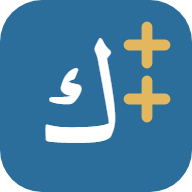
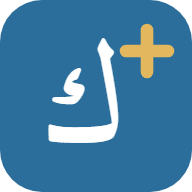
Rename to Kalimat Plus and fix sound on phones
- Kalimat Plus Plus is now Kalimat Plus in the page, SEO data,
  llms.txt, manifest and README; the icon and social image show one plus
- Bring across Kalimat's phone sound fix: speak inside the tap instead of
  after a delay, only cancel speech when something is playing, and show
  a help message when a phone gives no sound or the site is opened inside
  an in-app browser

diff --git a/index.html b/index.html
@@ -3,13 +3,13 @@
 <head>
 <meta charset="utf-8">
 <meta name="viewport" content="width=device-width,initial-scale=1,viewport-fit=cover">
-<title>Kalimat Plus Plus – Fusha Arabic Vocabulary for Discussion, Faith, Character and the Environment | Ummah Apps</title>
+<title>Kalimat Plus – Fusha Arabic Vocabulary for Discussion, Faith, Character and the Environment | Ummah Apps</title>
 <meta name="description" content="Free Fusha (Modern Standard Arabic) vocabulary trainer for intermediate learners: 240+ words and phrases for giving opinions, religion and worship, relationships and character, and the environment. Full harakat, audio, verb forms, plurals, example sentences and games.">
 <meta name="keywords" content="Fusha Arabic, Modern Standard Arabic vocabulary, intermediate Arabic, Arabic discussion phrases, Arabic linking words, Arabic opinion phrases, Islamic Arabic vocabulary, Arabic verb forms, masdar, verbal noun, broken plurals, Arabic example sentences, GCSE Arabic, Ummah Apps">
 <meta name="author" content="Ummah Apps">
 <meta name="robots" content="index,follow,max-image-preview:large">
-<meta name="application-name" content="Kalimat Plus Plus">
-<meta name="apple-mobile-web-app-title" content="Kalimat++">
+<meta name="application-name" content="Kalimat Plus">
+<meta name="apple-mobile-web-app-title" content="Kalimat Plus">
 <meta name="apple-mobile-web-app-capable" content="yes">
 <meta name="mobile-web-app-capable" content="yes">
 <meta name="theme-color" content="#EDF0F1" media="(prefers-color-scheme: light)">
@@ -25,17 +25,17 @@
 
 <meta property="og:type" content="website">
 <meta property="og:site_name" content="Ummah Apps">
-<meta property="og:title" content="Kalimat Plus Plus – Fusha Arabic for Deeper Topics">
+<meta property="og:title" content="Kalimat Plus – Fusha Arabic for Deeper Topics">
 <meta property="og:description" content="240+ Fusha words and phrases for discussion, faith, character and the environment, with audio, verb forms, plurals and example sentences. Free, in your browser.">
 <meta property="og:url" content="https://kalimat-plus.ummahapps.ai/">
 <meta property="og:image" content="https://kalimat-plus.ummahapps.ai/og-image.png">
 <meta property="og:image:width" content="1200">
 <meta property="og:image:height" content="630">
-<meta property="og:image:alt" content="Kalimat Plus Plus, the Arabic word كلمات, meaning words">
+<meta property="og:image:alt" content="Kalimat Plus, the Arabic word كلمات, meaning words">
 <meta property="og:locale" content="en_GB">
 <meta property="og:locale:alternate" content="ar_AR">
 <meta name="twitter:card" content="summary_large_image">
-<meta name="twitter:title" content="Kalimat Plus Plus – Fusha Arabic for Deeper Topics">
+<meta name="twitter:title" content="Kalimat Plus – Fusha Arabic for Deeper Topics">
 <meta name="twitter:description" content="240+ Fusha words and phrases for discussion, faith, character and the environment, with audio, verb forms, plurals and example sentences. Free, in your browser.">
 <meta name="twitter:image" content="https://kalimat-plus.ummahapps.ai/og-image.png">
 
@@ -52,8 +52,8 @@
     {
       "@type": "WebSite",
       "@id": "https://kalimat-plus.ummahapps.ai/#site",
-      "name": "Kalimat Plus Plus",
-      "alternateName": ["Kalimat++", "كلمات"],
+      "name": "Kalimat Plus",
+      "alternateName": "كلمات",
       "url": "https://kalimat-plus.ummahapps.ai/",
       "inLanguage": "en",
       "publisher": {"@id": "https://ummahapps.ai/#org"}
@@ -61,8 +61,8 @@
     {
       "@type": "WebApplication",
       "@id": "https://kalimat-plus.ummahapps.ai/#app",
-      "name": "Kalimat Plus Plus",
-      "alternateName": "Kalimat++",
+      "name": "Kalimat Plus",
+      "alternateName": "كلمات",
       "url": "https://kalimat-plus.ummahapps.ai/",
       "description": "A free Fusha (Modern Standard Arabic) vocabulary trainer for learners moving beyond the basics. It has 240+ words and phrases in four topics: discussion language (opinions, agreeing, contrasting, cause and effect, linking words), religion and worship, relationships and character, and the environment. Every entry has full harakat, an English meaning and an example sentence; verbs show the present tense and verbal noun (masdar), and nouns show sound or broken plurals.",
       "applicationCategory": "EducationalApplication",
@@ -94,9 +94,9 @@
     {
       "@type": "FAQPage",
       "mainEntity": [
-        {"@type": "Question", "name": "What is Kalimat Plus Plus?", "acceptedAnswer": {"@type": "Answer", "text": "A free Fusha (Modern Standard Arabic) vocabulary trainer for learners who know the basics and want words for deeper conversations: giving and defending opinions, religion and worship, relationships and character, and the environment."}},
-        {"@type": "Question", "name": "Is Kalimat Plus Plus free?", "acceptedAnswer": {"@type": "Answer", "text": "Yes. It is free, needs no account, has no ads and runs in your web browser."}},
-        {"@type": "Question", "name": "How is it different from Kalimat?", "acceptedAnswer": {"@type": "Answer", "text": "Kalimat teaches over 400 everyday beginner words. Kalimat Plus Plus moves on to discussion language and abstract topics, and adds example sentences for every entry, verb forms (present tense and verbal noun) and a game for saying the verb forms."}},
+        {"@type": "Question", "name": "What is Kalimat Plus?", "acceptedAnswer": {"@type": "Answer", "text": "A free Fusha (Modern Standard Arabic) vocabulary trainer for learners who know the basics and want words for deeper conversations: giving and defending opinions, religion and worship, relationships and character, and the environment."}},
+        {"@type": "Question", "name": "Is Kalimat Plus free?", "acceptedAnswer": {"@type": "Answer", "text": "Yes. It is free, needs no account, has no ads and runs in your web browser."}},
+        {"@type": "Question", "name": "How is it different from Kalimat?", "acceptedAnswer": {"@type": "Answer", "text": "Kalimat teaches over 400 everyday beginner words. Kalimat Plus moves on to discussion language and abstract topics, and adds example sentences for every entry, verb forms (present tense and verbal noun) and a game for saying the verb forms."}},
         {"@type": "Question", "name": "How does it pronounce the Arabic?", "acceptedAnswer": {"@type": "Answer", "text": "It uses your device's built-in text-to-speech voice. For the best pronunciation, add an Arabic voice in your phone or computer's speech or language settings, then choose it in the Voice menu."}},
         {"@type": "Question", "name": "Where is my progress saved?", "acceptedAnswer": {"@type": "Answer", "text": "Your learned and known-well words and your own words are saved in your browser on your device. Nothing is sent to a server."}},
         {"@type": "Question", "name": "Who is it for?", "acceptedAnswer": {"@type": "Answer", "text": "Intermediate learners of Modern Standard Arabic, including GCSE and A-level students, home-schoolers, and adults in Quranic or Madinah-style Arabic classes who want to discuss ideas in Fusha."}}
@@ -251,7 +251,7 @@ label{font-weight:800;font-size:.9rem;color:var(--ink-2)}
 <div class="wrap">
   <header class="top">
     <h1><span class="brand-ar" lang="ar" dir="rtl">كَلِمَات</span>
-    <span class="brand-en">Kalimat Plus Plus</span></h1>
+    <span class="brand-en">Kalimat Plus</span></h1>
     <p class="tag">Fusha vocabulary for discussing deeper topics, with a computer voice.</p>
   </header>
 
@@ -298,7 +298,7 @@ label{font-weight:800;font-size:.9rem;color:var(--ink-2)}
       <label class="check" for="show-pl"><input type="checkbox" id="show-pl"> Show plurals on every card</label>
       <label class="check" for="show-ex"><input type="checkbox" id="show-ex"> Show example sentences on every card</label>
       <p class="count" id="count"></p>
-      <div class="grid" id="grid"><noscript><p class="lead">Kalimat Plus Plus needs JavaScript to show the words, play audio and run the games. Please turn JavaScript on.</p></noscript></div>
+      <div class="grid" id="grid"><noscript><p class="lead">Kalimat Plus needs JavaScript to show the words, play audio and run the games. Please turn JavaScript on.</p></noscript></div>
     </section>
 
     <section id="view-quiz" hidden aria-labelledby="h-quiz">
@@ -680,6 +680,8 @@ label{font-weight:800;font-size:.9rem;color:var(--ink-2)}
   var custom=lsGet("kpp-custom",[]).filter(function(w){return w&&w.id&&w.ar&&w.en});
   custom.forEach(function(w){w.custom=true;w.t=w.t||"n";w.pl=w.pl||"";w.pt=w.pt||"";w.pres=w.pres||"";w.ms=w.ms||"";w.ex=w.ex||"";w.exen=w.exen||""});
   var voice=lsGet("kpp-voice",{name:"",rate:0.85});
+  // In-app browsers (WhatsApp, Instagram, Facebook and similar) often have no speech at all
+  var inApp=/FBAN|FBAV|Instagram|WhatsApp|Snapchat|TikTok|Line\/|; wv\)/i.test(navigator.userAgent||"");
   var filter={cat:"all",type:"",show:"all",q:""};
 
   function allWords(){return BUILTIN.concat(custom)}
@@ -688,7 +690,7 @@ label{font-weight:800;font-size:.9rem;color:var(--ink-2)}
   function catName(k){for(var i=0;i<CATS.length;i++)if(CATS[i][0]===k)return CATS[i][1];return "My words"}
 
   var toastTimer;
-  function toast(t){var el=$("#toast");el.textContent=t;el.classList.add("show");clearTimeout(toastTimer);toastTimer=setTimeout(function(){el.classList.remove("show")},3200)}
+  function toast(t,ms){var el=$("#toast");el.textContent=t;el.classList.add("show");clearTimeout(toastTimer);toastTimer=setTimeout(function(){el.classList.remove("show")},ms||3200)}
 
   function refreshVoices(){
     var all=[];try{all=speechSynthesis.getVoices()||[]}catch(e){}
@@ -699,14 +701,21 @@ label{font-weight:800;font-size:.9rem;color:var(--ink-2)}
       if(!voice.name||!ar.some(function(v){return v.name===voice.name}))voice.name=ar[0].name;
       sel.value=voice.name;
     }
-    $("#voice-note").hidden=ar.length>0;
+    $("#voice-note").hidden=ar.length>0&&!inApp;
+  }
+  // Shown once per visit when a phone gives no sound
+  var soundHelped=false;
+  function soundHelp(){
+    if(soundHelped)return;soundHelped=true;
+    toast("No sound? Turn off silent mode, turn the volume up, and add an Arabic voice in your phone's speech settings.",9000);
   }
   function stopSpeech(){
-    try{window.speechSynthesis&&speechSynthesis.cancel()}catch(e){}
+    // Only cancel when something is playing: cancelling an idle queue can swallow the next word on some phones
+    try{var s=window.speechSynthesis;if(s&&(s.speaking||s.pending))s.cancel()}catch(e){}
     document.querySelectorAll(".playing").forEach(function(e){e.classList.remove("playing")});
   }
   function speak(text,el){
-    if(!("speechSynthesis" in window)){toast("This browser cannot speak. Try Chrome or Safari.");return}
+    if(!("speechSynthesis" in window)){toast("This browser cannot speak. Open the site in Chrome or Safari.",6000);return}
     stopSpeech();
     var u=new SpeechSynthesisUtterance(text);
     var vs=[];try{vs=speechSynthesis.getVoices()||[]}catch(e){}
@@ -714,9 +723,14 @@ label{font-weight:800;font-size:.9rem;color:var(--ink-2)}
     if(v){u.voice=v;u.lang=v.lang}else{u.lang="ar-SA"}
     u.rate=voice.rate;
     if(el)el.classList.add("playing");
+    var started=false;
     function done(){if(el)el.classList.remove("playing")}
-    u.onend=done;u.onerror=done;
-    setTimeout(function(){try{speechSynthesis.speak(u)}catch(e){done()}},60);
+    u.onstart=function(){started=true};
+    u.onend=done;
+    u.onerror=function(e){done();if(!e||(e.error!=="interrupted"&&e.error!=="canceled"))soundHelp()};
+    // Speak straight away, inside the tap: iPhones and some Android browsers block speech started later
+    try{speechSynthesis.resume();speechSynthesis.speak(u)}catch(e){done();soundHelp()}
+    setTimeout(function(){if(!started&&!speechSynthesis.speaking)soundHelp()},2500);
     setTimeout(done,10000);
   }
   var actx=null;
@@ -1061,8 +1075,14 @@ label{font-weight:800;font-size:.9rem;color:var(--ink-2)}
   tabs.forEach(function(t){t.addEventListener("click",function(){show(t.dataset.tab)})});
 
   renderChips();renderWords();renderAddCats();renderMine();paintRate();syncAddType();
-  if("speechSynthesis" in window){refreshVoices();speechSynthesis.onvoiceschanged=refreshVoices}
-  else{$("#voice-note").textContent="This browser cannot speak Arabic aloud. Try Chrome or Safari.";$("#voice-note").hidden=false}
+  if("speechSynthesis" in window){
+    refreshVoices();
+    if(speechSynthesis.addEventListener)speechSynthesis.addEventListener("voiceschanged",refreshVoices);else speechSynthesis.onvoiceschanged=refreshVoices;
+  }
+  if(!("speechSynthesis" in window)||inApp){
+    $("#voice-note").textContent="This app may not be able to play sound here. Open kalimat-plus.ummahapps.ai in Chrome or Safari.";
+    $("#voice-note").hidden=false;
+  }
 })();
 </script>
 

diff --git a/README.md b/README.md
@@ -1,4 +1,4 @@
-# Kalimat Plus Plus كَلِمَات
+# Kalimat Plus كَلِمَات
 
 A free Fusha (Modern Standard Arabic) vocabulary trainer for discussing deeper topics. Live at https://kalimat-plus.ummahapps.ai/
 
